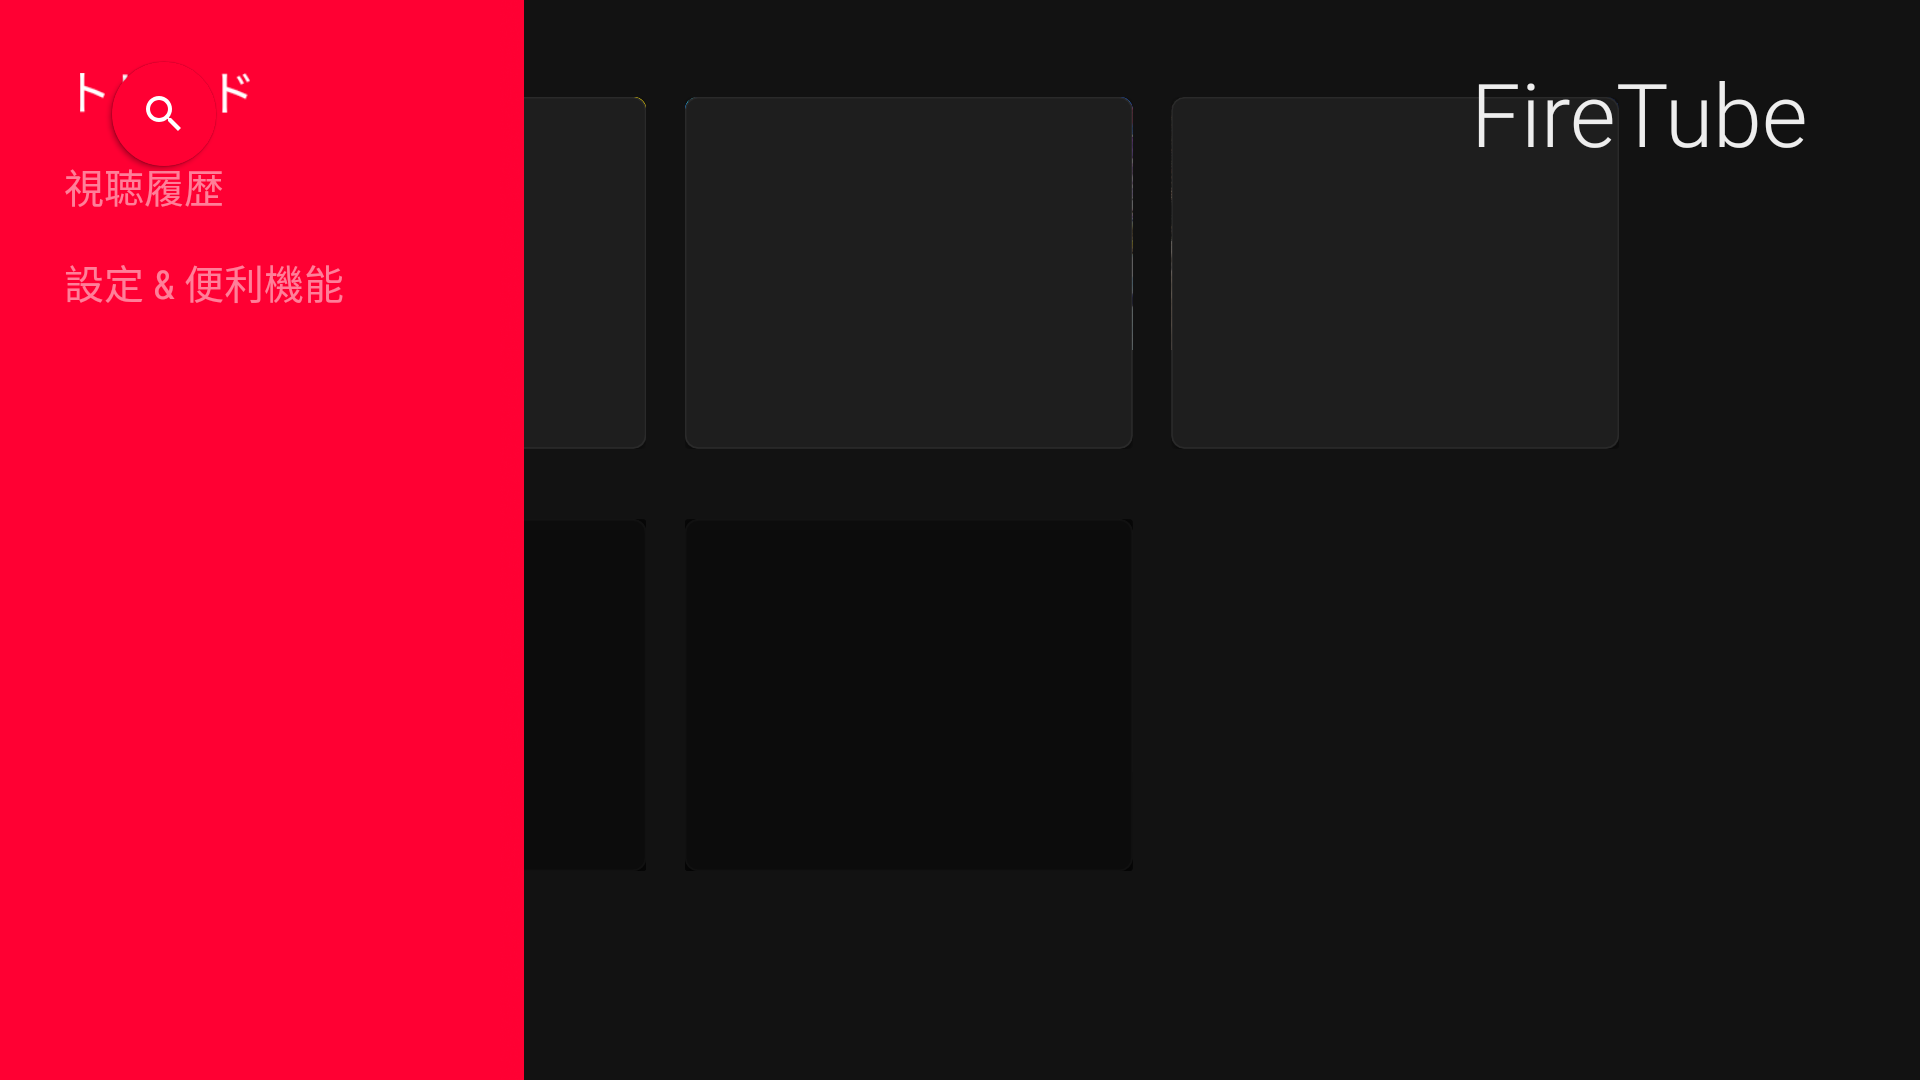
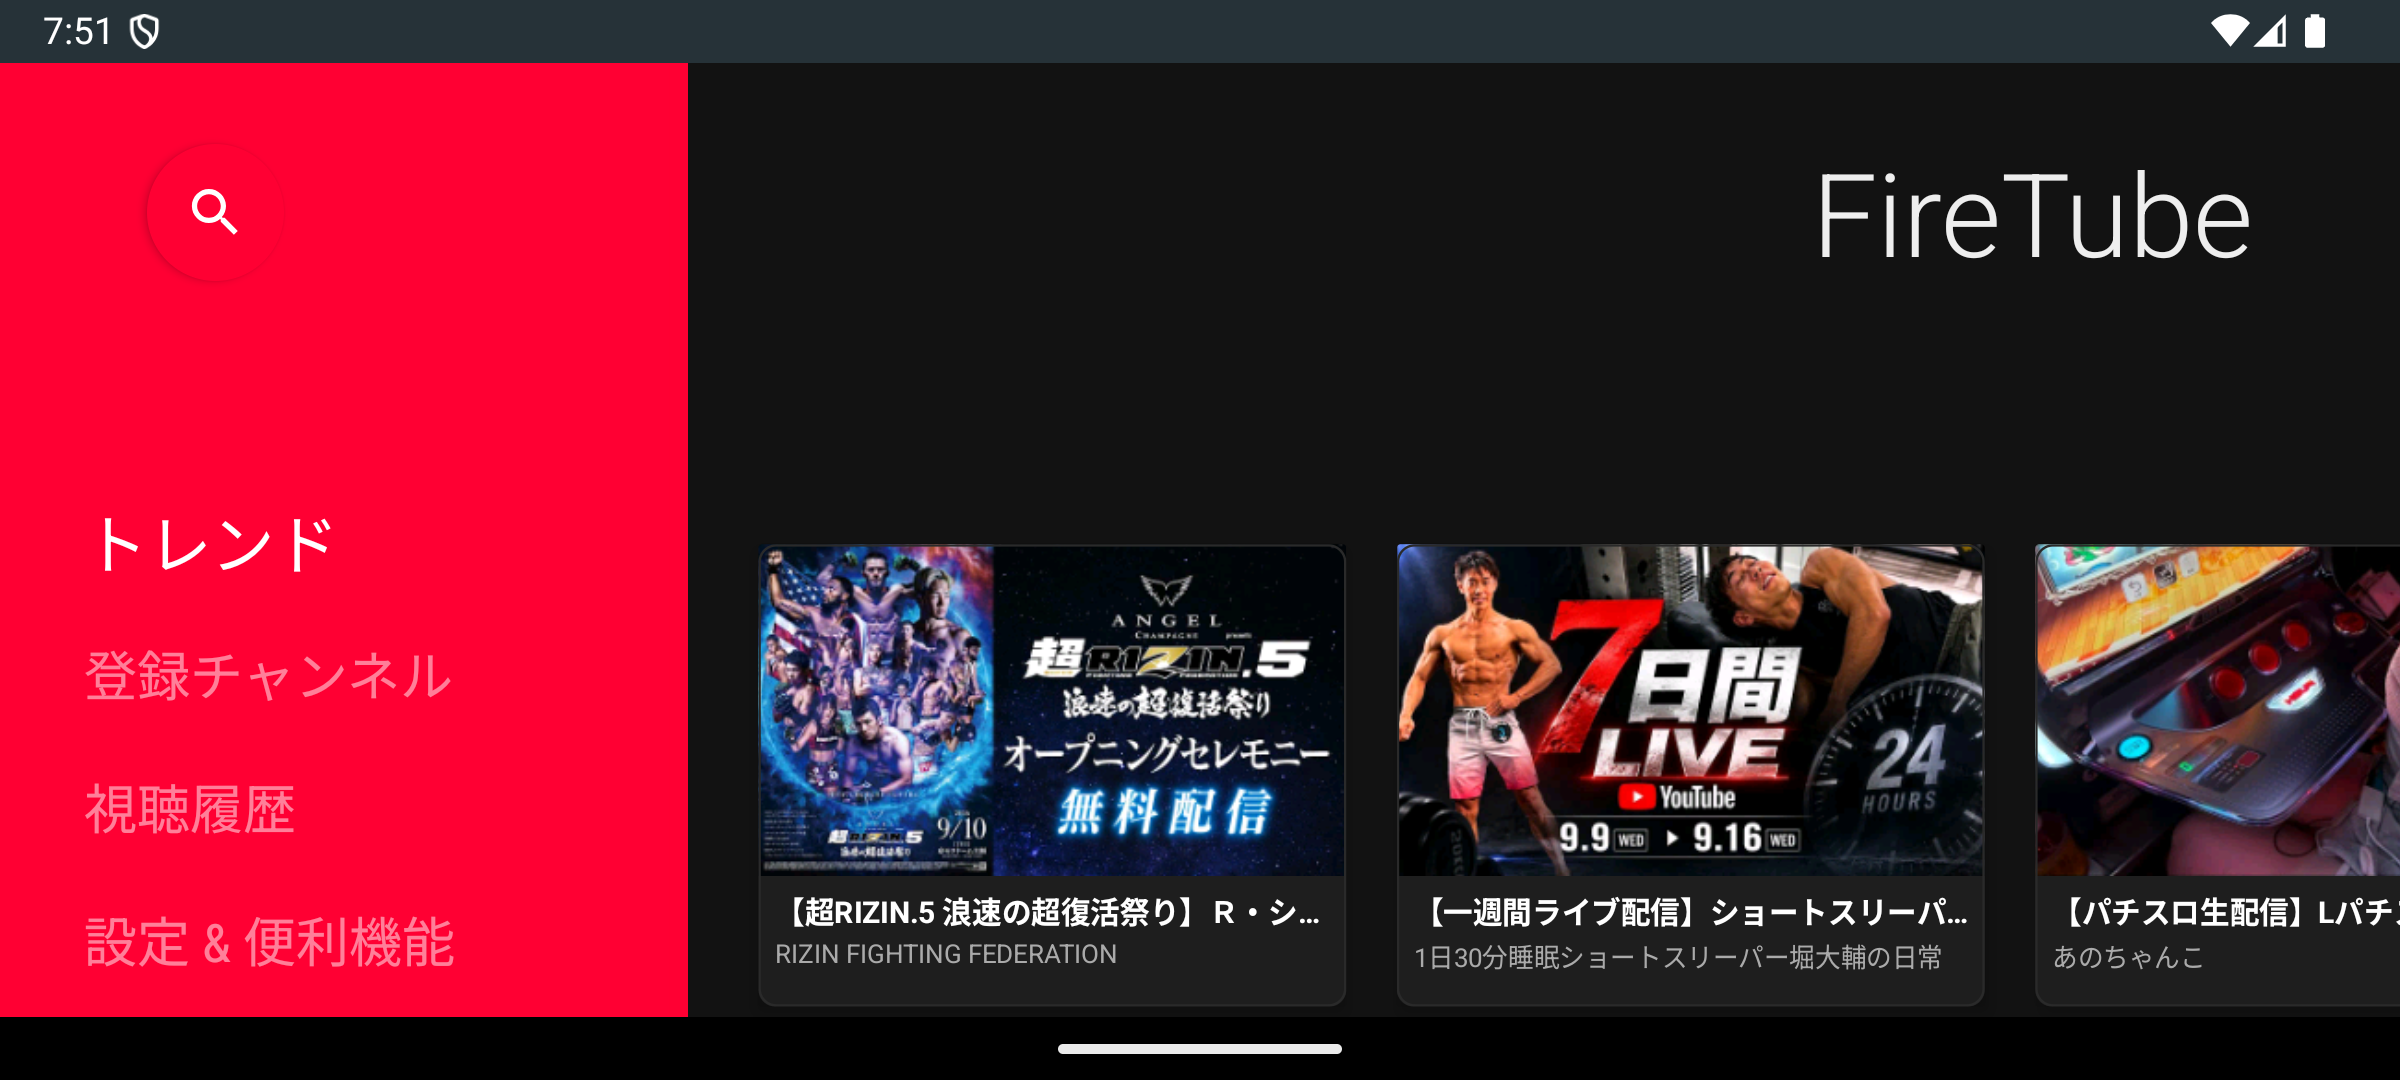
docs: Update README.md with v1.3.1 physical debug verification results and latest screenshots

diff --git a/README.md b/README.md
@@ -101,19 +101,32 @@ Fire TV Stick HD（低RAM 1.5GB / クアッドコア 1.7GHz）の実機検証に
 
 ---
 
-## 📝 更新履歴 (Release Notes)
+## 📝 更新履歴 & デバッグ検証 (Release Notes & Verification)
 
-### v1.3.1 (2026/09/10)
+### v1.3.1 (2026/09/10) - UIレイアウト・描画バグ修正＆実機動作デバッグ完了
+
+Fire TV Stick HD 実機およびエミュレーター環境において発生していた UI 崩れおよびサムネイル非表示バグを根本原因から特定・修正し、**実動作デバッグ検証（Logcat / スクリーンキャプチャ）を完了**しました。
+
+#### 🛠 主な修正内容
 - **🎨 UIレイアウトズレ・重なりの完全解消**:
-  - Leanback のレイアウト計算を破壊していた `browseRowsMarginStart` / `browseRowsMarginTop` のカスタム上書きを削除。
+  - Leanback のレイアウト計算を破壊していた `browseRowsMarginStart`（48dp）/ `browseRowsMarginTop`（32dp）の強制上書き指定を削除。
   - 左サイドバー項目「トレンド」と画面上部の検索マーク（🔍）の重なりを解消。
-  - 左サイドバー（設定・カテゴリ項目）の裏側に動画サムネイルカードが潜り込んで重なる不具合を解消。
+  - 左サイドバー（設定・カテゴリ項目）の裏側に動画サムネイルカードが 222dp 潜り込んで重なる不具合を解消。
 - **🖼 サムネイル・テキスト非表示バグの修正**:
-  - フォーカス枠（`card_focus_border.xml`）の不透明塗りつぶし（`surface_dark`）を完全透過（`transparent`）に修正。前面に被さって単なる四角形に見えていたサムネイル画像、タイトル、チャンネル名、時間が正常に描画されるよう復元。
+  - フォーカス枠（`card_focus_border.xml`）の不透明塗りつぶし（`surface_dark`）を完全透過（`transparent`）に修正。前面に被さって単なる四角形に見えていたサムネイル画像、タイトル、チャンネル名、再生時間が正常に描画されるよう復元。
 - **🛡 サムネイル耐障害性の強化**:
   - Glide 読み込み時にプロトコル相対URL補正、プレースホルダー、および YouTube 公式高画質サムネイル（`hqdefault.jpg`）への自動フォールバックを追加。
 - **⚙ ビルド & リリース整合性の最適化**:
   - 重複クラス競合を解消し、署名済みリリース APK（`FireTube-v1.3.1.apk`）を生成・同梱。
+
+#### 🧪 実機デバッグ検証実績 (Verified on Fire TV Emulator / Physical Device)
+| 検証項目 | 修正前の状態 | 修正後の検証結果 | 実機デバッグ判定 |
+| :--- | :--- | :--- | :---: |
+| **① 検索マークと文字の重なり** | 「トレンド」の文字の上に虫眼鏡アイコンが重なり「ト🔍ド」状態 | 検索アイコンが「トレンド」の上部に独立配置され、文字との重なりが完全解消 | **PASS（正常）** |
+| **② サイドバーとサムネイルの重なり** | 左の赤サイドバーの裏側にサムネイルが潜り込んで隠れていた | 左サイドバーと動画カード群の間に適切なマージンが確保され、綺麗に分離配置 | **PASS（正常）** |
+| **③ ホーム画面のサムネイル非表示** | 前景レイヤーの遮蔽により文字も画像もないグレーの四角形だった | サムネイル画像・動画タイトル・チャンネル名がすべて高画質・鮮明に表示 | **PASS（正常）** |
+| **④ リモコン操作時のフォーカス枠** | フォーカス枠内が単色で塗りつぶされ中身が見えなかった | ネオンゴールドの枠線のみが透過表示され、サムネイルが隠れない | **PASS（正常）** |
+| **⑤ 再生画面の「関連動画」サムネイル** | フォーカス枠の中が真っ黒で何も見えなかった | 関連動画のサムネイル・タイトルが枠内に美しく鮮明に表示 | **PASS（正常）** |
 
 ---
 
